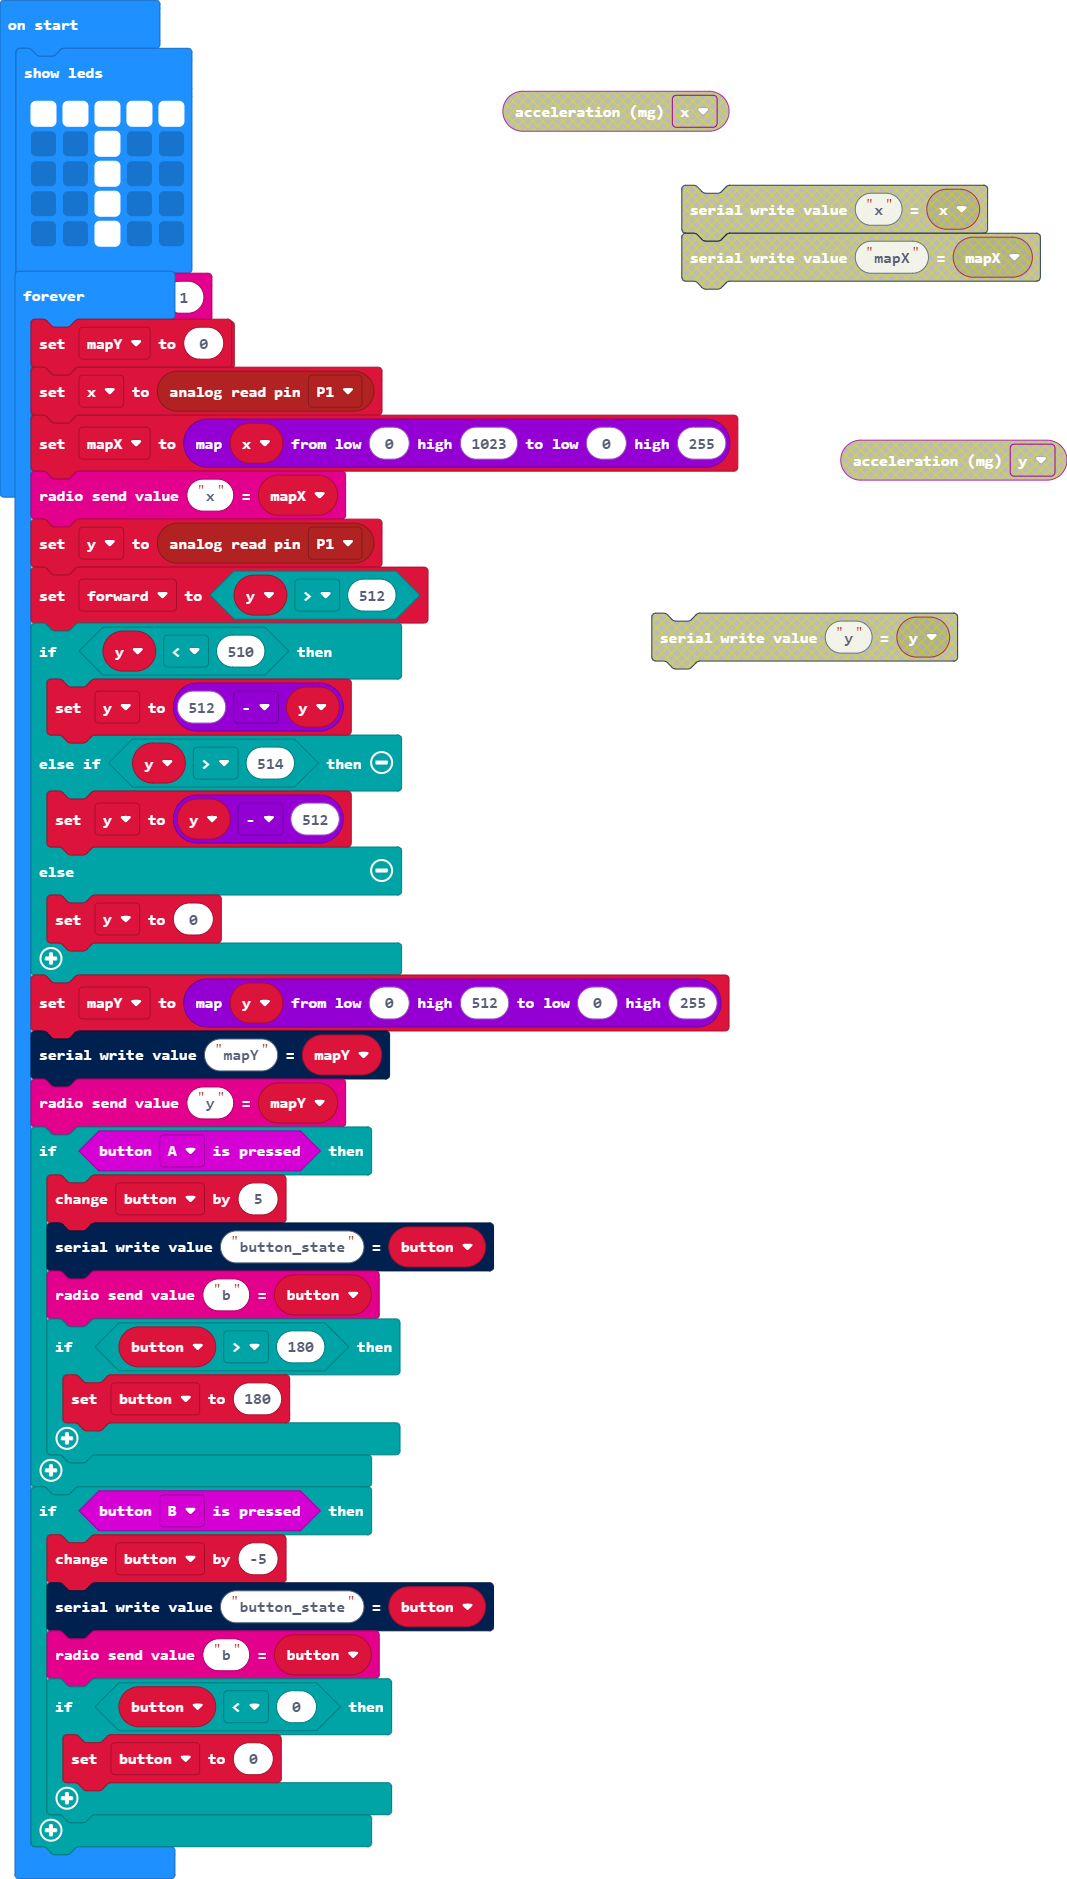
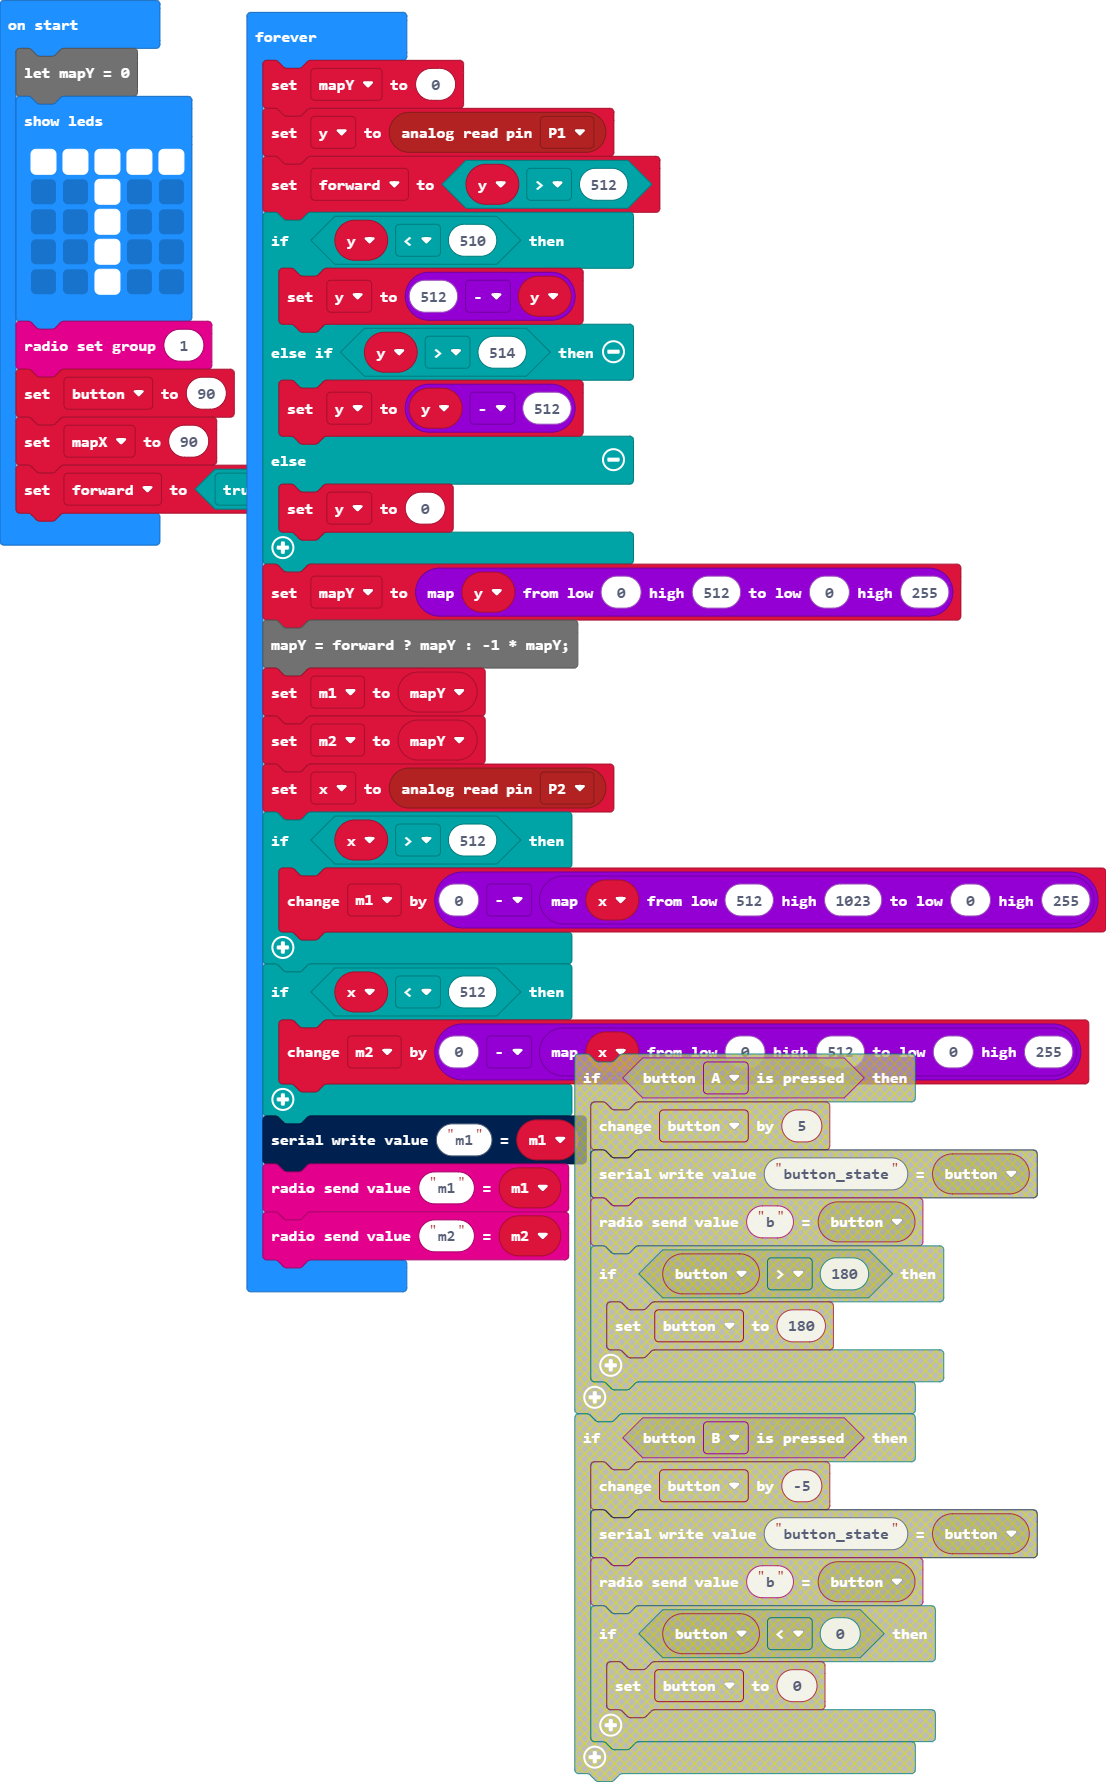
Update main.blocks, main.ts

diff --git a/main.ts b/main.ts
@@ -1,5 +1,7 @@
-let y = 0
 let x = 0
+let m2 = 0
+let m1 = 0
+let y = 0
 let mapY = 0
 basic.showLeds(`
     # # # # #
@@ -14,9 +16,6 @@ let mapX = 90
 let forward = true
 basic.forever(function () {
     mapY = 0
-    x = pins.analogReadPin(AnalogPin.P1)
-    mapX = Math.map(x, 0, 1023, 0, 255)
-    radio.sendValue("x", mapX)
     y = pins.analogReadPin(AnalogPin.P1)
     forward = y > 512
     if (y < 510) {
@@ -27,22 +26,17 @@ basic.forever(function () {
         y = 0
     }
     mapY = Math.map(y, 0, 512, 0, 255)
-    serial.writeValue("mapY", mapY)
-    radio.sendValue("y", mapY)
-    if (input.buttonIsPressed(Button.A)) {
-        button += 5
-        serial.writeValue("button_state", button)
-        radio.sendValue("b", button)
-        if (button > 180) {
-            button = 180
-        }
+    mapY = forward ? mapY : -1 * mapY;
+m1 = mapY
+    m2 = mapY
+    x = pins.analogReadPin(AnalogPin.P2)
+    if (x > 512) {
+        m1 += 0 - Math.map(x, 512, 1023, 0, 255)
     }
-    if (input.buttonIsPressed(Button.B)) {
-        button += -5
-        serial.writeValue("button_state", button)
-        radio.sendValue("b", button)
-        if (button < 0) {
-            button = 0
-        }
+    if (x < 512) {
+        m2 += 0 - Math.map(x, 0, 512, 0, 255)
     }
+    serial.writeValue("m1", m1)
+    radio.sendValue("m1", m1)
+    radio.sendValue("m2", m2)
 })
